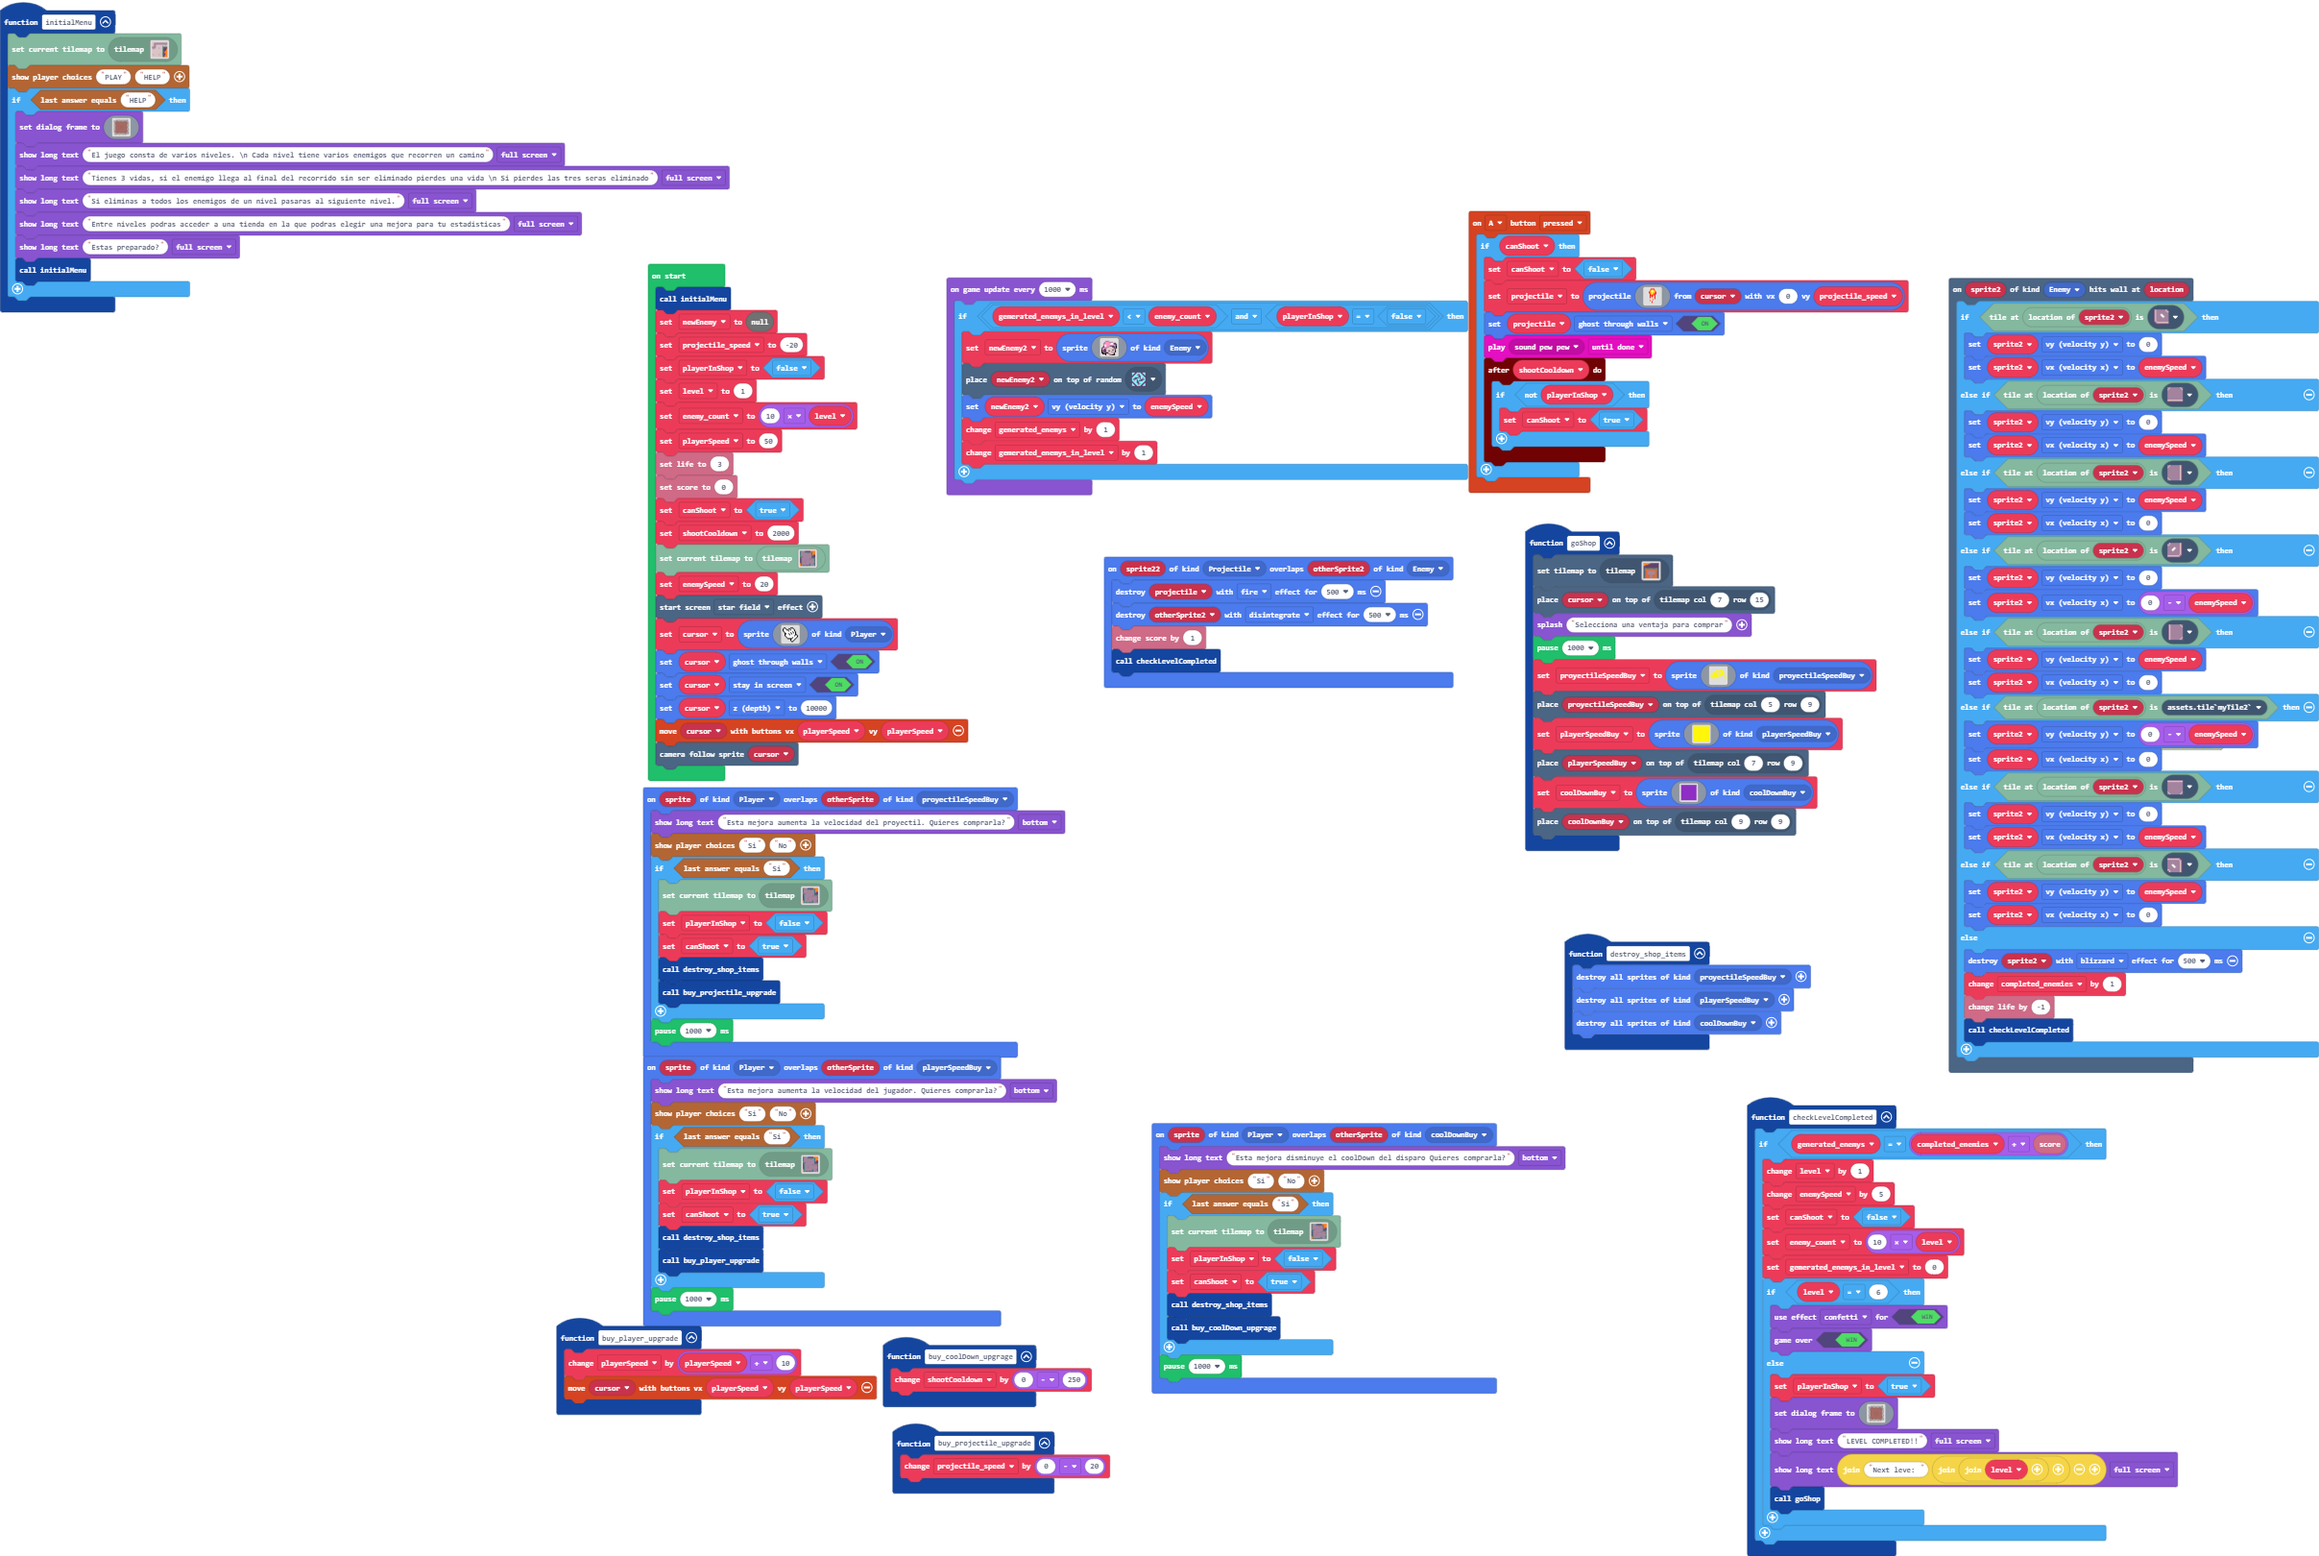
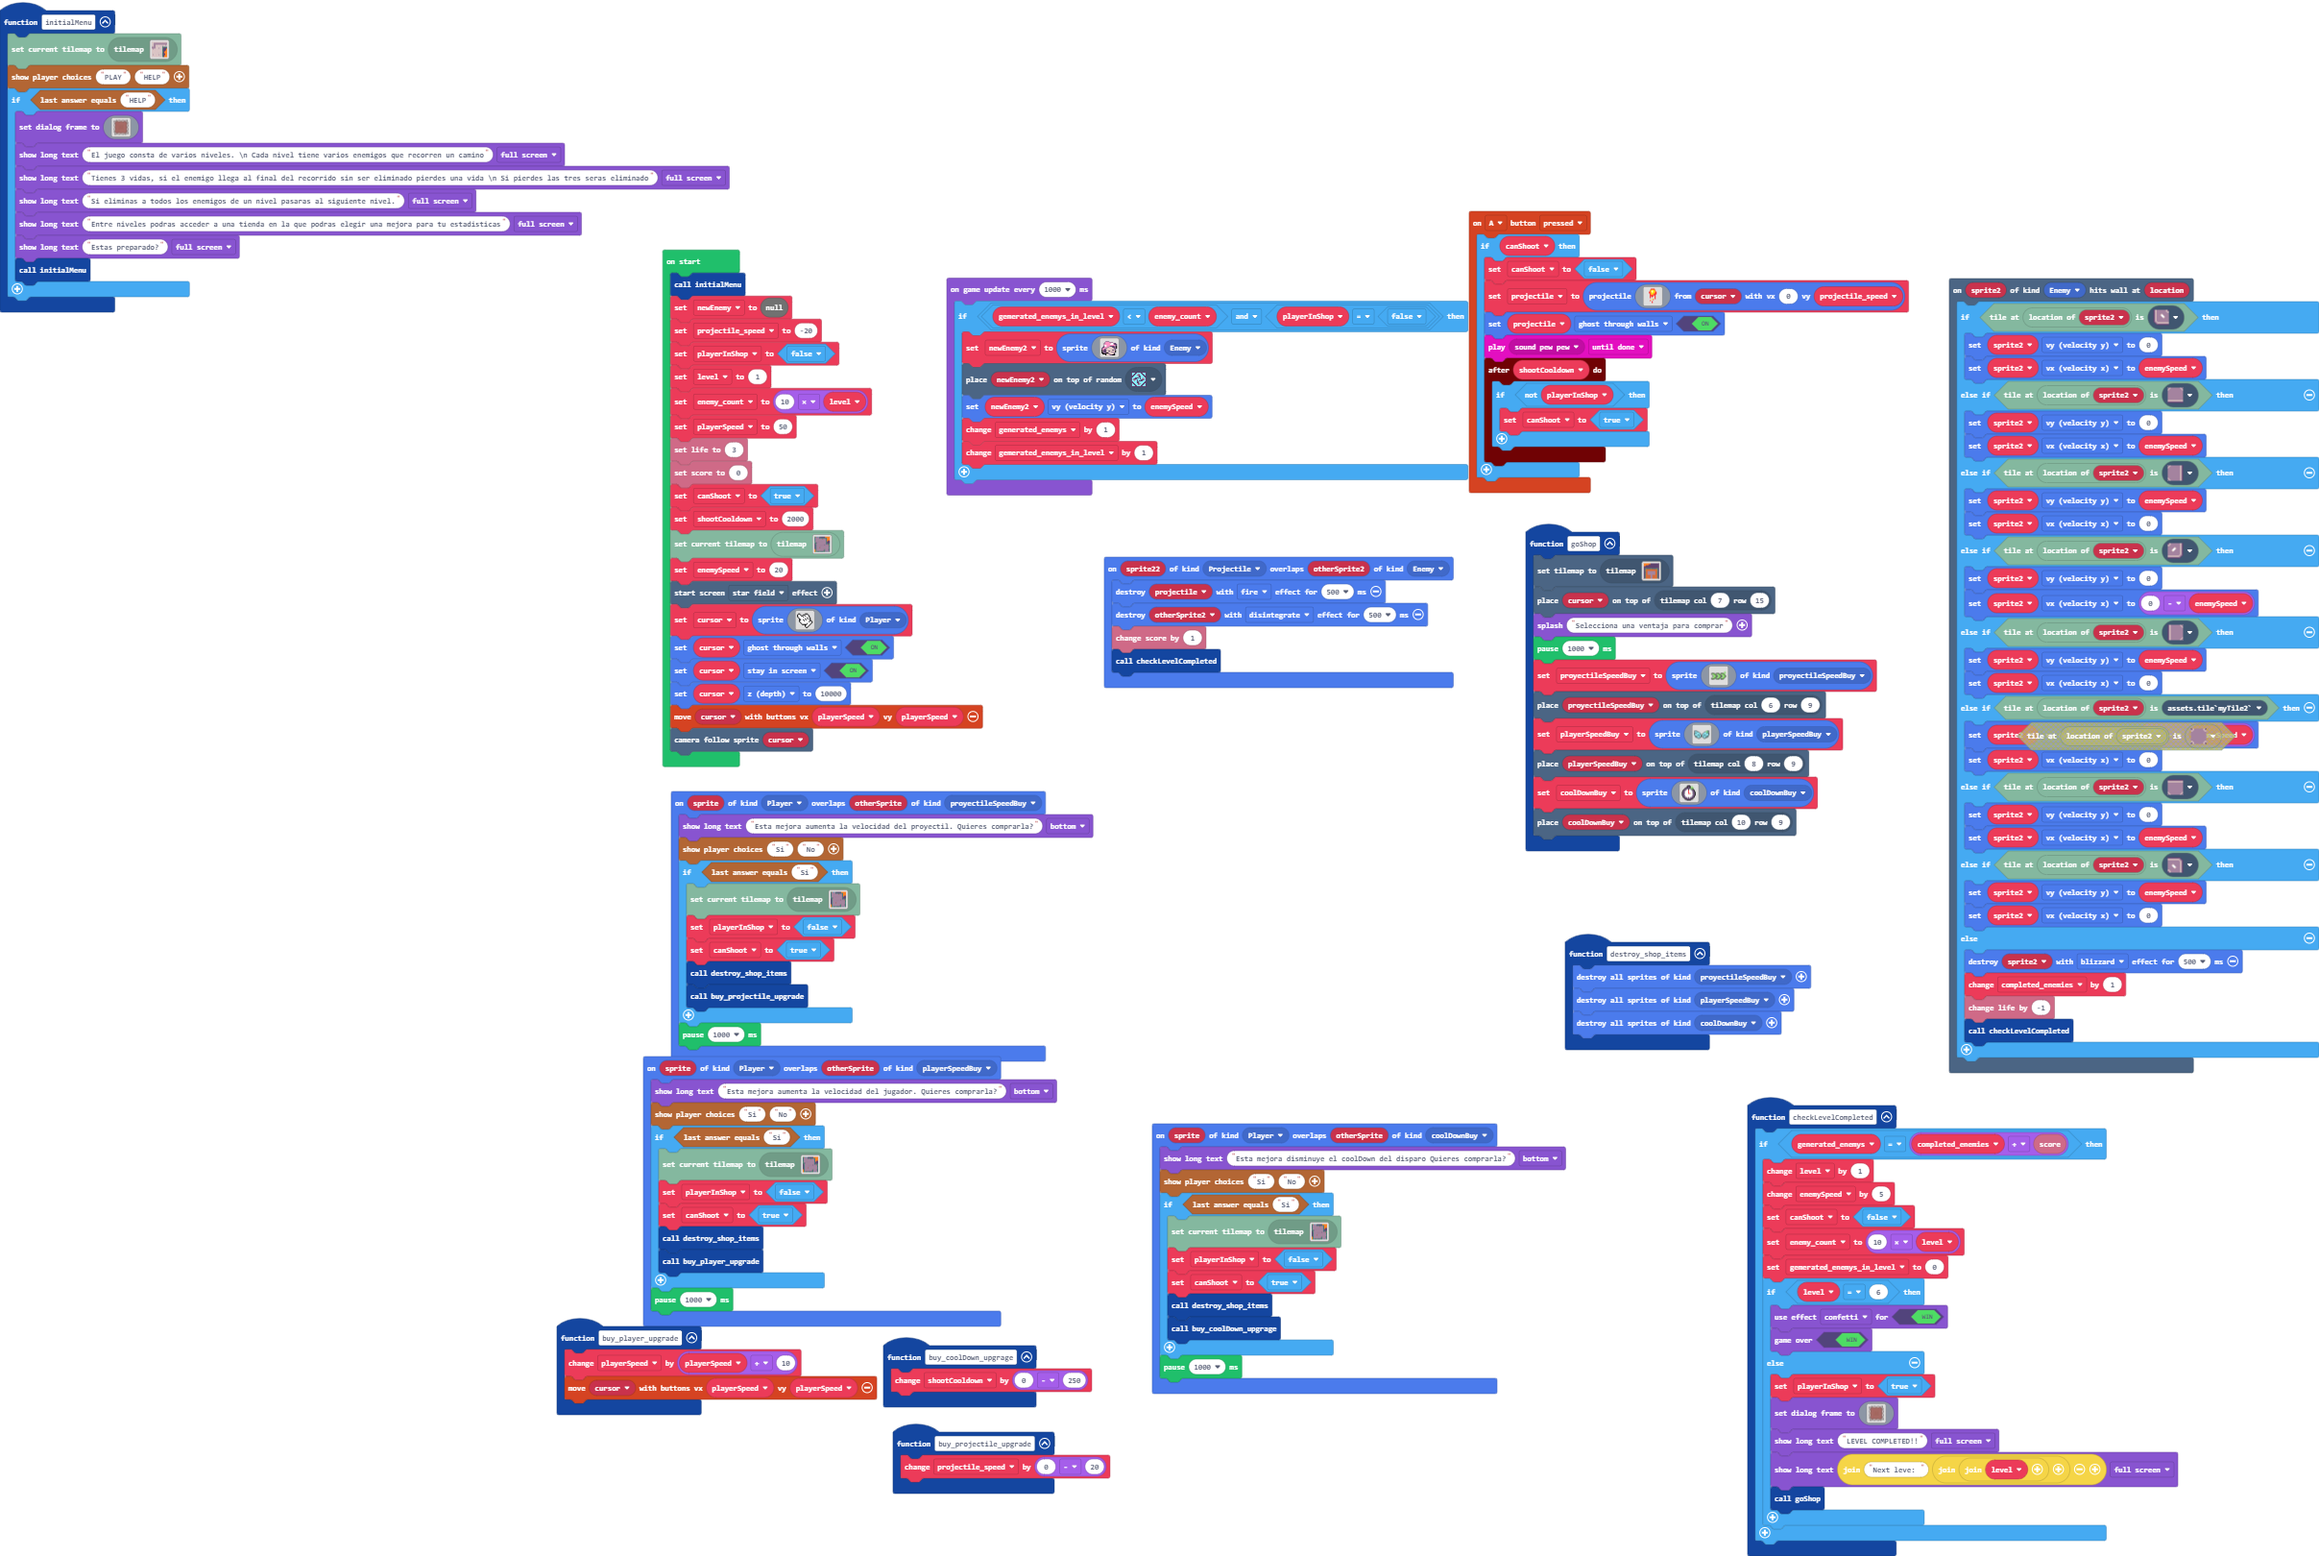
objects sprites design

diff --git a/tilemap.g.ts b/tilemap.g.ts
@@ -206,44 +206,6 @@ namespace myTiles {
 . . . . . . . . . . . . . . . . 
 . . . . . . . . . . . . . . . . 
 `, [myTiles.transparency16], TileScale.Sixteen);
-            case "level12":
[1 lines of base64/hex data omitted]
-. . . . . . . . . . . . . . . . 
-. . . . . . . . . . . . . . . . 
-. . . . . . . . . . . . . . . . 
-. . . . . . . . . . . . . . . . 
-. . . . . . . . . . . . . . . . 
-. . . . . . . . . . . . . . . . 
-. . . . . . . . . . . . . . . . 
-. . . . . . . . . . . . . . . . 
-. . . . . . . . . . . . . . . . 
-. . . . . . . . . . . . . . . . 
-. . . . . . . . . . . . . . . . 
-. . . . . . . . . . . . . . . . 
-. . . . . . . . . . . . . . . . 
-. . . . . . . . . . . . . . . . 
-. . . . . . . . . . . . . . . . 
-. . . . . . . . . . . . . . . . 
-`, [myTiles.transparency16,sprites.dungeon.floorLight0,sprites.dungeon.floorLight1,sprites.dungeon.floorLightMoss,sprites.dungeon.floorLight4,sprites.dungeon.floorLight3,sprites.dungeon.floorLight5,sprites.vehicle.roadIntersection3,sprites.vehicle.roadIntersection1,sprites.vehicle.roadTurn1,sprites.vehicle.roadIntersection2,sprites.vehicle.roadTurn4,sprites.vehicle.roadIntersection4,sprites.dungeon.greenOuterSouth1,sprites.dungeon.greenInnerNorthWest,sprites.dungeon.greenOuterEast0,sprites.dungeon.darkGroundNorthWest0,sprites.dungeon.darkGroundNorth,sprites.dungeon.darkGroundWest,sprites.dungeon.darkGroundCenter,sprites.dungeon.greenOuterEast2,sprites.dungeon.greenOuterSouth2,sprites.dungeon.hazardLava1,sprites.dungeon.hazardLava0], TileScale.Sixteen);
-            case "level8":
[1 lines of base64/hex data omitted]
-2 2 2 2 2 2 2 2 2 2 2 2 2 2 2 2 
-2 2 2 2 2 2 2 2 2 2 2 2 2 2 2 2 
-2 2 2 2 2 2 2 2 2 2 2 2 2 2 2 2 
-2 2 2 2 2 2 2 2 2 2 2 2 2 2 2 2 
-2 2 2 2 2 2 2 2 2 2 2 2 2 2 2 2 
-2 2 2 2 2 2 2 2 2 2 2 2 2 2 2 2 
-2 2 . . . . . . . . . . . . 2 2 
-2 2 . . . . . . . . . . . . 2 2 
-2 2 . . . . . . . . . . . . 2 2 
-2 2 . . . . . . . . . . . . 2 2 
-2 2 . . . . . . . . . . . . 2 2 
-2 2 . . . . . . . . . . . . 2 2 
-2 2 . . . . . . . . . . . . 2 2 
-2 2 . . . . . . . . . . . . 2 2 
-2 2 . . . . . . . . . . . . 2 2 
-2 2 . . . . . . . . . . . . 2 2 
-`, [myTiles.transparency16,myTiles.tile7,myTiles.tile3,sprites.vehicle.roadIntersection2,sprites.vehicle.roadIntersection4,sprites.vehicle.roadIntersection1,sprites.vehicle.roadTurn3,sprites.vehicle.roadTurn4,sprites.vehicle.roadTurn2,sprites.vehicle.roadTurn1,sprites.vehicle.roadIntersection3,sprites.dungeon.chestClosed,sprites.dungeon.greenOuterWest1,sprites.dungeon.greenOuterEast0,sprites.dungeon.greenOuterNorth0,sprites.dungeon.greenOuterNorthWest,sprites.dungeon.greenOuterNorthEast,sprites.dungeon.greenOuterNorth2,sprites.dungeon.greenOuterWest2,sprites.dungeon.greenOuterEast2,sprites.dungeon.chestOpen,sprites.dungeon.darkGroundSouthEast0,sprites.dungeon.darkGroundEast,sprites.dungeon.darkGroundSouth,sprites.dungeon.darkGroundWest,sprites.dungeon.darkGroundSouthWest0,sprites.dungeon.darkGroundCenter,sprites.dungeon.stairLadder,sprites.dungeon.hazardLava0,sprites.dungeon.hazardLava1,sprites.dungeon.darkGroundNorthWest0,sprites.dungeon.darkGroundNorth], TileScale.Sixteen);
             case "level14":
             case "level14":return tiles.createTilemap(hex`1000100000000000000000000000000000000000000000000000000000000000000000000000000000000000000000000000000000000000000000000000000000000000000000000000000000000000000000000000000000000000000000000000000000000000000000000000000000000000000000000000000000000000000000000000000000000000000000000000000000000000000000000000000000000000000000000000000000000000000000000000000000000000000000000000000000000000000000000000000000000000000000000000000000000000000000000000000000000000000000000000000000000000000000000000000000000000`, img`
 . . . . . . . . . . . . . . . . 
@@ -301,6 +263,44 @@ namespace myTiles {
 . . . . . . . . . . . . . . . . 
 . . . . . . . . . . . . . . . . 
 `, [myTiles.transparency16], TileScale.Sixteen);
+            case "level12":
[1 lines of base64/hex data omitted]
+. . . . . . . . . . . . . . . . 
+. . . . . . . . . . . . . . . . 
+. . . . . . . . . . . . . . . . 
+. . . . . . . . . . . . . . . . 
+. . . . . . . . . . . . . . . . 
+. . . . . . . . . . . . . . . . 
+. . . . . . . . . . . . . . . . 
+. . . . . . . . . . . . . . . . 
+. . . . . . . . . . . . . . . . 
+. . . . . . . . . . . . . . . . 
+. . . . . . . . . . . . . . . . 
+. . . . . . . . . . . . . . . . 
+. . . . . . . . . . . . . . . . 
+. . . . . . . . . . . . . . . . 
+. . . . . . . . . . . . . . . . 
+. . . . . . . . . . . . . . . . 
+`, [myTiles.transparency16,sprites.dungeon.floorLight0,sprites.dungeon.floorLight1,sprites.dungeon.floorLightMoss,sprites.dungeon.floorLight4,sprites.dungeon.floorLight3,sprites.dungeon.floorLight5,sprites.vehicle.roadIntersection3,sprites.vehicle.roadIntersection1,sprites.vehicle.roadTurn1,sprites.vehicle.roadIntersection2,sprites.vehicle.roadTurn4,sprites.vehicle.roadIntersection4,sprites.dungeon.greenOuterSouth1,sprites.dungeon.greenInnerNorthWest,sprites.dungeon.greenOuterEast0,sprites.dungeon.darkGroundNorthWest0,sprites.dungeon.darkGroundNorth,sprites.dungeon.darkGroundWest,sprites.dungeon.darkGroundCenter,sprites.dungeon.greenOuterEast2,sprites.dungeon.greenOuterSouth2,sprites.dungeon.hazardLava1,sprites.dungeon.hazardLava0], TileScale.Sixteen);
+            case "level8":
[1 lines of base64/hex data omitted]
+2 2 2 2 2 2 2 2 2 2 2 2 2 2 2 2 
+2 2 2 2 2 2 2 2 2 2 2 2 2 2 2 2 
+2 2 2 2 2 2 2 2 2 2 2 2 2 2 2 2 
+2 2 2 2 2 2 2 2 2 2 2 2 2 2 2 2 
+2 2 2 2 2 2 2 2 2 2 2 2 2 2 2 2 
+2 2 2 2 2 2 2 2 2 2 2 2 2 2 2 2 
+2 2 . . . . . . . . . . . . 2 2 
+2 2 . . . . . . . . . . . . 2 2 
+2 2 . . . . . . . . . . . . 2 2 
+2 2 . . . . . . . . . . . . 2 2 
+2 2 . . . . . . . . . . . . 2 2 
+2 2 . . . . . . . . . . . . 2 2 
+2 2 . . . . . . . . . . . . 2 2 
+2 2 . . . . . . . . . . . . 2 2 
+2 2 . . . . . . . . . . . . 2 2 
+2 2 . . . . . . . . . . . . 2 2 
+`, [myTiles.transparency16,myTiles.tile7,myTiles.tile3,sprites.vehicle.roadIntersection2,sprites.vehicle.roadIntersection4,sprites.vehicle.roadIntersection1,sprites.vehicle.roadTurn3,sprites.vehicle.roadTurn4,sprites.vehicle.roadTurn2,sprites.vehicle.roadTurn1,sprites.vehicle.roadIntersection3,sprites.dungeon.chestClosed,sprites.dungeon.greenOuterWest1,sprites.dungeon.greenOuterEast0,sprites.dungeon.greenOuterNorth0,sprites.dungeon.greenOuterNorthWest,sprites.dungeon.greenOuterNorthEast,sprites.dungeon.greenOuterNorth2,sprites.dungeon.greenOuterWest2,sprites.dungeon.greenOuterEast2,sprites.dungeon.chestOpen,sprites.dungeon.darkGroundSouthEast0,sprites.dungeon.darkGroundEast,sprites.dungeon.darkGroundSouth,sprites.dungeon.darkGroundWest,sprites.dungeon.darkGroundSouthWest0,sprites.dungeon.darkGroundCenter,sprites.dungeon.stairLadder,sprites.dungeon.hazardLava0,sprites.dungeon.hazardLava1,sprites.dungeon.darkGroundNorthWest0,sprites.dungeon.darkGroundNorth], TileScale.Sixteen);
             case "level0":
[1 lines of base64/hex data omitted]
 2 2 . . 2 2 2 2 2 2 2 2 2 2 2 2 

diff --git a/main.ts b/main.ts
@@ -201,62 +201,63 @@ function goShop () {
     game.splash("Selecciona una ventaja para comprar")
     pause(1000)
     proyectileSpeedBuy = sprites.create(img`
-        . . . . . . . . . . . . . . . . 
-        . . . . . . . . . . . . . . . . 
-        . . . . . . 5 5 5 5 5 5 . . . . 
-        . . . . . 5 . . . . 5 5 5 . . . 
-        . . . . 5 . . . . . . . 5 5 . . 
-        . . 5 5 5 5 5 5 5 5 5 5 5 5 . . 
-        . 5 . 5 5 5 5 5 5 5 5 5 . 5 . . 
-        5 . 5 5 5 5 5 . . 5 5 5 5 5 . . 
-        5 5 . . 5 5 5 5 5 5 5 . . . 5 5 
-        5 5 5 5 5 5 5 5 . . . . . . . 5 
-        . 5 5 5 5 5 . . . . . . . . . 5 
-        . . . . . . . . . . . . . . . 5 
-        . . . . . . . . . . . . . . . . 
-        . . . . . . . . . . . . . . . . 
-        . . . . . . . . . . . . . . . . 
-        . . . . . . . . . . . . . . . . 
+        ........................7..
+        ........................7..
+        ......................77777
+        .fffff...fffff...fffff..7..
+        f17777f.f17777f.f17777f.7..
+        .f17777f.f17777f.f17777f...
+        ..f17777f.f17777f.f17777f..
+        ...f17777f.f17777f.f17777f.
+        ....f17777f.f17777f.f17777f
+        ...f17777f.f17777f.f17777f.
+        ..f17777f.f17777f.f17777f..
+        .f17777f.f17777f.f17777f...
+        f17777f.f17777f.f17777f....
+        .fffff...fffff...fffff.....
         `, SpriteKind.proyectileSpeedBuy)
-    tiles.placeOnTile(proyectileSpeedBuy, tiles.getTileLocation(5, 9))
+    tiles.placeOnTile(proyectileSpeedBuy, tiles.getTileLocation(6, 9))
     playerSpeedBuy = sprites.create(img`
-        5 5 5 5 5 5 5 5 5 5 5 5 5 5 5 5 
-        5 5 5 5 5 5 5 5 5 5 5 5 5 5 5 5 
-        5 5 5 5 5 5 5 5 5 5 5 5 5 5 5 5 
-        5 5 5 5 5 5 5 5 5 5 5 5 5 5 5 5 
-        5 5 5 5 5 5 5 5 5 5 5 5 5 5 5 5 
-        5 5 5 5 5 5 5 5 5 5 5 5 5 5 5 5 
-        5 5 5 5 5 5 5 5 5 5 5 5 5 5 5 5 
-        5 5 5 5 5 5 5 5 5 5 5 5 5 5 5 5 
-        5 5 5 5 5 5 5 5 5 5 5 5 5 5 5 5 
-        5 5 5 5 5 5 5 5 5 5 5 5 5 5 5 5 
-        5 5 5 5 5 5 5 5 5 5 5 5 5 5 5 5 
-        5 5 5 5 5 5 5 5 5 5 5 5 5 5 5 5 
-        5 5 5 5 5 5 5 5 5 5 5 5 5 5 5 5 
-        5 5 5 5 5 5 5 5 5 5 5 5 5 5 5 5 
-        5 5 5 5 5 5 5 5 5 5 5 5 5 5 5 5 
-        5 5 5 5 5 5 5 5 5 5 5 5 5 5 5 5 
+        .............................
+        .fff....................7fff.
+        .f99ff.................f799f.
+        .f9999ff.............f77777f.
+        .f999999ff.........ff999799f.
+        .ff9999999f.......f9999979ff.
+        ff9fff99999f.....f99999fff9ff
+        f99999999999f...f99999999999f
+        f99999999999f...f99999999999f
+        .f99999fff999f.f999fff99999f.
+        ..ff99f999f99f.f99f999f99ff..
+        .f999f9999f99f.f99f9999f999f.
+        ..f99f999f999f.f999f999f99f..
+        ...fff999999f...f999999fff...
+        ......f9999f.....f9999f......
+        .......ffff.......ffff.......
         `, SpriteKind.playerSpeedBuy)
-    tiles.placeOnTile(playerSpeedBuy, tiles.getTileLocation(7, 9))
+    tiles.placeOnTile(playerSpeedBuy, tiles.getTileLocation(8, 9))
     coolDownBuy = sprites.create(img`
-        a a a a a a a a a a a a a a a a 
-        a a a a a a a a a a a a a a a a 
-        a a a a a a a a a a a a a a a a 
-        a a a a a a a a a a a a a a a a 
-        a a a a a a a a a a a a a a a a 
-        a a a a a a a a a a a a a a a a 
-        a a a a a a a a a a a a a a a a 
-        a a a a a a a a a a a a a a a a 
-        a a a a a a a a a a a a a a a a 
-        a a a a a a a a a a a a a a a a 
-        a a a a a a a a a a a a a a a a 
-        a a a a a a a a a a a a a a a a 
-        a a a a a a a a a a a a a a a a 
-        a a a a a a a a a a a a a a a a 
-        a a a a a a a a a a a a a a a a 
-        a a a a a a a a a a a a a a a a 
+        .......fff.......
+        ......fcccf.7....
+        ......ffcff.7....
+        ....ffcccc77777..
+        ...fcccccccc7f...
+        ..fccc11f11c7cf..
+        .fccc1112111cccf.
+        .fcc111121111ccf.
+        fccc111121111cccf
+        fcc11111211111ccf
+        fccf111122211fccf
+        fcc11111111111ccf
+        fccc111111111cccf
+        .fcc111111111ccf.
+        .fccc1111111cccf.
+        ..fcccc1f1ccccf..
+        ...fcccccccccf...
+        ....ffcccccff....
+        ......fffff......
         `, SpriteKind.coolDownBuy)
-    tiles.placeOnTile(coolDownBuy, tiles.getTileLocation(9, 9))
+    tiles.placeOnTile(coolDownBuy, tiles.getTileLocation(10, 9))
 }
 sprites.onOverlap(SpriteKind.Projectile, SpriteKind.Enemy, function (sprite22, otherSprite2) {
     sprites.destroy(projectile, effects.fire, 500)
